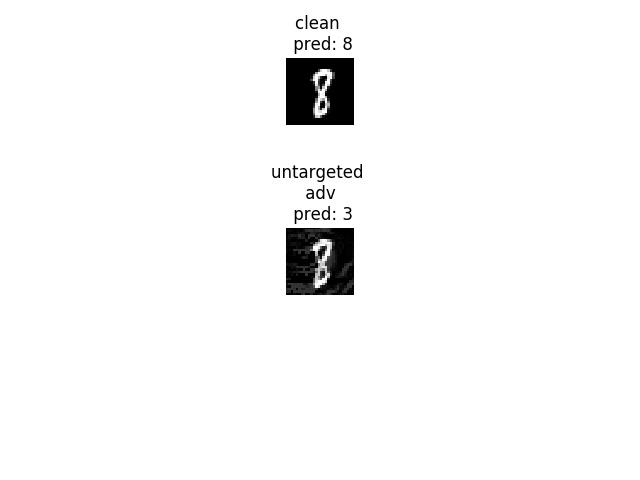
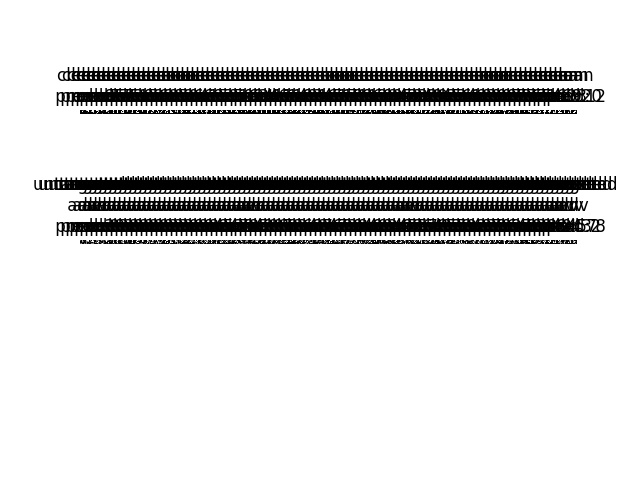
update

Changed region(s): [[0.0312, 0.3438, 0.9688, 0.625], [0.0625, 0.0312, 0.9688, 0.2812]]

diff --git a/advertorch/attacks/iterative_projected_gradient.py b/advertorch/attacks/iterative_projected_gradient.py
@@ -29,7 +29,7 @@ from .utils import rand_init_delta
 
 def perturb_iterative(xvar, yvar, predict, nb_iter, eps, eps_iter, loss_fn,
                       delta_init=None, minimize=False, ord=np.inf,
-                      clip_min=0.0, clip_max=1.0):
+                      clip_min=0.0, clip_max=1.0, beta = 0.5,early_stop = True):
     """
     Iteratively maximize the loss over the input. It is a shared method for
     iterative attacks including IterativeGradientSign, LinfPGD, etc.
@@ -54,31 +54,29 @@ def perturb_iterative(xvar, yvar, predict, nb_iter, eps, eps_iter, loss_fn,
         delta = torch.zeros_like(xvar)
     count = 0
     delta.requires_grad_()
+    print(nb_iter)
     for ii in range(nb_iter):
         count += 1
         loss,w_loss = loss_fn(predict, yvar,xvar, xvar + delta)
         outputs = predict(xvar + delta)
         p = torch.argmax(outputs,dim=1)
-        print(p == yvar)
-        # if torch.max(p == yvar) != 1:
-        #     break # 攻击成功提前结束迭代
+        if torch.max(p == yvar) != 1 and early_stop:
+            break # 攻击成功提前结束迭代
         predict.zero_grad()
         loss.backward(retain_graph=True)
-        g1 = torch.mean(delta.grad.data.sign().reshape(-1,28*28))
+        g1 = torch.mean(delta.grad.data.abs().reshape(-1,28*28)).float()
         delta.grad.data.zero_()
         w_loss.backward(retain_graph=True)
-        g2 = torch.mean(delta.grad.data.sign().reshape(-1,28*28))
-        small_constant=1e-12
+        g2 = torch.mean(delta.grad.data.abs().reshape(-1,28*28)).float()
         g = g1 / g2
-        g = float(g.numpy())
-        beta = 2
-        if count > (nb_iter)/2: # may not coverage
-            print('set beta to 0 at round', count)
-            # beta = beta / 10
+        g = torch.min(g,torch.tensor(1e6))
+        if count % 5 == 0: # may not coverage
+            beta = beta / 10
         delta.grad.data.zero_()
-        print('loss',loss)
-        print('w_loss', w_loss)
-        print(count)
+        # print('loss',loss)
+        # print('w_loss', w_loss)
+        # print(count)
+        # print((p == yvar).sum())
         final_loss = loss + beta * g * w_loss
         final_loss.backward(retain_graph=True)
 
@@ -111,7 +109,8 @@ def perturb_iterative(xvar, yvar, predict, nb_iter, eps, eps_iter, loss_fn,
         delta.grad.data.zero_()
 
     x_adv = clamp(xvar + delta, clip_min, clip_max)
-    return x_adv
+    iter_count = count
+    return x_adv, iter_count
 
 
 
@@ -126,7 +125,7 @@ class PGDAttack(Attack, LabelMixin):
     def __init__(
             self, predict, loss_fn=None, eps=0.3, nb_iter=40,
             eps_iter=0.01, rand_init=True, clip_min=0., clip_max=1.,
-            ord=np.inf, targeted=False):
+            ord=np.inf, targeted=False, beta = 0.5,early_stop=True):
         """
         Create an instance of the PGDAttack.
 
@@ -148,6 +147,8 @@ class PGDAttack(Attack, LabelMixin):
         self.eps_iter = eps_iter
         self.rand_init = rand_init
         self.ord = ord
+        self.beta = beta
+        self.early_stop = early_stop
         self.targeted = targeted
         if self.loss_fn is None:
             self.loss_fn = nn.CrossEntropyLoss(reduction="sum")
@@ -177,14 +178,14 @@ class PGDAttack(Attack, LabelMixin):
             delta.data = clamp(
                 x + delta.data, min=self.clip_min, max=self.clip_max) - x
 
-        rval = perturb_iterative(
+        rval,iter_count = perturb_iterative(
             x, y, self.predict, nb_iter=self.nb_iter,
             eps=self.eps, eps_iter=self.eps_iter,
             loss_fn=self.loss_fn, minimize=self.targeted,
             ord=self.ord, clip_min=self.clip_min,
-            clip_max=self.clip_max, delta_init=delta)
+            clip_max=self.clip_max, delta_init=delta, beta= self.beta, early_stop = self.early_stop)
 
-        return rval.data
+        return rval.data,iter_count
 
 
 class LinfPGDAttack(PGDAttack):
@@ -223,12 +224,12 @@ class L1BasicIterativeAttack(PGDAttack):
     """Like GradientAttack but with several steps for each epsilon."""
 
     def __init__(self, predict, loss_fn=None, eps=0.1, nb_iter=10,
-                 eps_iter=0.05, clip_min=0., clip_max=1., targeted=False):
+                 eps_iter=0.05, clip_min=0., clip_max=1., targeted=False, beta = 0.5,early_stop=True):
         ord = 1
         rand_init = False
         super(L1BasicIterativeAttack, self).__init__(
             predict, loss_fn, eps, nb_iter, eps_iter, rand_init,
-            clip_min, clip_max, ord, targeted)
+            clip_min, clip_max, ord, targeted, beta,early_stop)
 
 class LinfBasicIterativeAttack(PGDAttack):
     """
@@ -386,7 +387,7 @@ class FastFeatureAttack(Attack):
         guide = replicate_input(guide)
         guide_ftr = self.predict(guide).detach()
 
-        xadv = perturb_iterative(source, guide_ftr, self.predict,
+        xadv, iter_count = perturb_iterative(source, guide_ftr, self.predict,
                                  self.nb_iter, eps_iter=self.eps_iter,
                                  loss_fn=self.loss_fn, minimize=True,
                                  ord=np.inf, eps=self.eps,
@@ -396,4 +397,4 @@ class FastFeatureAttack(Attack):
 
         xadv = clamp(xadv, self.clip_min, self.clip_max)
 
-        return xadv.data
+        return xadv.data,iter_count

diff --git a/layers.py b/layers.py
@@ -1,0 +1,99 @@
+import torch
+import torch.nn as nn
+
+# Adapted from https://github.com/gpeyre/SinkhornAutoDiff
+class SinkhornDistance(nn.Module):
+    r"""
+    Given two empirical measures with n points each with locations x and y,
+    outputs an approximation of the regularized OT cost for point clouds.
+
+    Args:
+        eps (float): regularization coefficient
+        max_iter (int): maximum number of Sinkhorn iterations
+        reduction (string, optional): Specifies the reduction to apply to the output:
+            'none' | 'mean' | 'sum'. 'none': no reduction will be applied,
+            'mean': the sum of the output will be divided by the number of
+            elements in the output, 'sum': the output will be summed. Default: 'mean'
+
+    Shape:
+        - Input: :math:`(N, \text{in\_features})`, :math:`(N, \text{in\_features})`
+        - Output: :math:`(N)` or :math:`()`, depending on `reduction`
+    """
+    def __init__(self, eps, max_iter, reduction='mean'):
+        super(SinkhornDistance, self).__init__()
+        self.eps = eps
+        self.max_iter = max_iter
+        self.reduction = reduction
+
+    def forward(self, x, y):
+        # The Sinkhorn algorithm takes as input three variables :
+        C = self._cost_matrix(x, y)  # Wasserstein cost function
+        x_points = x.shape[-2]
+        y_points = y.shape[-2]
+        if x.dim() == 2:
+            batch_size = 1
+        else:
+            batch_size = x.shape[0]
+
+        # both marginals are fixed with equal weights
+        mu = torch.empty(batch_size, x_points, dtype=torch.float,
+                         requires_grad=False).fill_(1.0 / x_points).squeeze()
+        nu = torch.empty(batch_size, y_points, dtype=torch.float,
+                         requires_grad=False).fill_(1.0 / y_points).squeeze()
+
+        u = torch.zeros_like(mu)
+        v = torch.zeros_like(nu)
+        # To check if algorithm terminates because of threshold
+        # or max iterations reached
+        actual_nits = 0
+        # Stopping criterion
+        thresh = 1e-1
+
+        # Sinkhorn iterations
+        for i in range(self.max_iter):
+            u1 = u  # useful to check the update
+            u = self.eps * (torch.log(mu+1e-8) - self.lse(self.M(C, u, v))) + u
+            v = self.eps * (torch.log(nu+1e-8) - self.lse(self.M(C, u, v).transpose(-2, -1))) + v
+            err = (u - u1).abs().sum(-1).mean()
+
+            actual_nits += 1
+            if err.item() < thresh:
+                break
+
+        U, V = u, v
+        # Transport plan pi = diag(a)*K*diag(b)
+        pi = torch.exp(self.M(C, U, V))
+        # Sinkhorn distance
+        cost = torch.sum(pi * C, dim=(-2, -1))
+
+        if self.reduction == 'mean':
+            cost = cost.mean()
+        elif self.reduction == 'sum':
+            cost = cost.sum()
+
+        return cost, pi, C
+
+    def M(self, C, u, v):
+        "Modified cost for logarithmic updates"
+        "$M_{ij} = (-c_{ij} + u_i + v_j) / \epsilon$"
+        return (-C + u.unsqueeze(-1) + v.unsqueeze(-2)) / self.eps
+
+    @staticmethod
+    def _cost_matrix(x, y, p=2):
+        "Returns the matrix of $|x_i-y_j|^p$."
+        x_col = x.unsqueeze(-2)
+        y_lin = y.unsqueeze(-3)
+        C = torch.sum((torch.abs(x_col - y_lin)) ** p, -1)
+        return C
+
+    @staticmethod
+    def lse(A):
+        "log-sum-exp"
+        # add 10^-6 to prevent NaN
+        result = torch.log(torch.exp(A).sum(-1) + 1e-6)
+        return result
+
+    @staticmethod
+    def ave(u, u1, tau):
+        "Barycenter subroutine, used by kinetic acceleration through extrapolation."
+        return tau * u + (1 - tau) * u1

diff --git a/sbim_attack.py b/sbim_attack.py
@@ -4,14 +4,15 @@ import argparse
 import torch
 import torch.nn as nn
 import numpy as np
-from WassNet import WassNet
 from advertorch.utils import predict_from_logits
 from advertorch_examples.utils import get_mnist_test_loader
 from advertorch_examples.utils import _imshow
 from advertorch.test_utils import LeNet5
 from advertorch_examples.utils import TRAINED_MODEL_PATH
 from advertorch.attacks import LinfPGDAttack,LinfBasicIterativeAttack,L1BasicIterativeAttack,GradientAttack,GradientSignAttack
-
+from layers import SinkhornDistance
+from WassNet import WassNet
+from torch.autograd import Variable
 
 parser = argparse.ArgumentParser(description='wbim-attack')
 parser.add_argument('--seed', default=20, type=int)
@@ -38,7 +39,6 @@ model.load_state_dict(
     torch.load(os.path.join(TRAINED_MODEL_PATH, filename),map_location='cpu'))
 model.to(device)
 model.eval()
-
 wass_model_filename = 'mnist_wass_net.pt'
 wass_model = WassNet()
 wass_model.load_state_dict(
@@ -46,13 +46,17 @@ wass_model.load_state_dict(
 wass_model.to(device)
 wass_model.eval()
 
-# define loss
 def myloss(model,yvar,xvar,xadv):
     outputs = model(xadv)
     loss_fn = torch.nn.CrossEntropyLoss()
     loss = loss_fn(outputs, yvar)
-    w_loss = torch.mean(wass_model(xadv))
-    return loss,w_loss
+    if args.beta == 0:
+        return loss,Variable(torch.tensor(0.0),requires_grad=True)
+    sinkhorn = SinkhornDistance(eps=0.1, max_iter=1000, reduction=None)
+    x = xvar.view(-1,28*28,1)
+    y= xadv.view(-1,28*28,1)
+    w_loss,_,_ = sinkhorn(x, y)
+    return loss,-torch.mean(w_loss)
 
 
 adversary = L1BasicIterativeAttack(
@@ -64,6 +68,14 @@ def eu_dist(x,y):
     A=x.reshape(-1,28*28)
     B=y.reshape(-1,28*28)
     return np.mean(np.linalg.norm(A-B,ord=2,axis=1))
+def s_dist(clns,advs):
+    sinkhorn = SinkhornDistance(eps=0.1, max_iter=1000, reduction=None)
+    x = np.array(clns).reshape(-1,28*28,1)
+    y = np.array(advs).reshape(-1,28*28,1)
+    x = torch.tensor(x).float()
+    y = torch.tensor(y).float()
+    w_dist,_,_ = sinkhorn(x, y)
+    return torch.mean(255*w_dist).numpy()
 def w_dist(x,y):
     return (wass_model(x) - wass_model(y)).detach().numpy().mean()
 
@@ -97,6 +109,7 @@ np.save('adv_data/pred_advs.npy',pred_advs)
 
 print('l2 distance:', eu_dist(np.array(clns), np.array(advs)))
 print('w distance:', w_dist(torch.tensor(clns).float(), torch.tensor(advs).float()))
+print('s distance:', s_dist(torch.tensor(clns).float(), torch.tensor(advs).float()))
 print('attack success rate:',1 - (np.array(pred_clns) == np.array(pred_advs)).sum() / len(pred_advs))
 print('average iter count:', np.array(iter_counts).mean())
 # for ii in range(batch_size):

diff --git a/WassNet.py b/WassNet.py
@@ -55,18 +55,11 @@ class WassNet(nn.Module):
         super(WassNet, self).__init__()
         main = nn.Sequential(
             nn.Conv2d(1, DIM, 5, stride=2, padding=2),
-            # nn.Linear(OUTPUT_DIM, 4*4*4*DIM),
             nn.LeakyReLU(0.2),
             nn.Conv2d(DIM, 2*DIM, 5, stride=2, padding=2),
-            # nn.Linear(4*4*4*DIM, 4*4*4*DIM),
             nn.LeakyReLU(0.2),
             nn.Conv2d(2*DIM, 4*DIM, 5, stride=2, padding=2),
-            # nn.Linear(4*4*4*DIM, 4*4*4*DIM),
             nn.LeakyReLU(0.2),
-            # nn.Linear(4*4*4*DIM, 4*4*4*DIM),
-            # nn.LeakyReLU(True),
-            # nn.Linear(4*4*4*DIM, 4*4*4*DIM),
-            # nn.LeakyReLU(True),
         )
         self.main = main
         self.output = nn.Linear(4*4*4*DIM, 1)

diff --git a/visualize.py b/visualize.py
@@ -3,12 +3,12 @@ import numpy as np
 import torch
 filename = 'loss_final.npy'
 data = np.load(filename)
-data = data[0:-20000:150]
+data = data[0:-40000:150]
 print(data.shape)
 plt.plot(data,label='loss')
 plt.xlabel('iter_n')
 plt.ylabel('loss')
 plt.ylim((-2.15, -1))
-# plt.ylim((1,2.23))
+# plt.ylim((1,2.27))
 plt.legend()
 plt.show()
